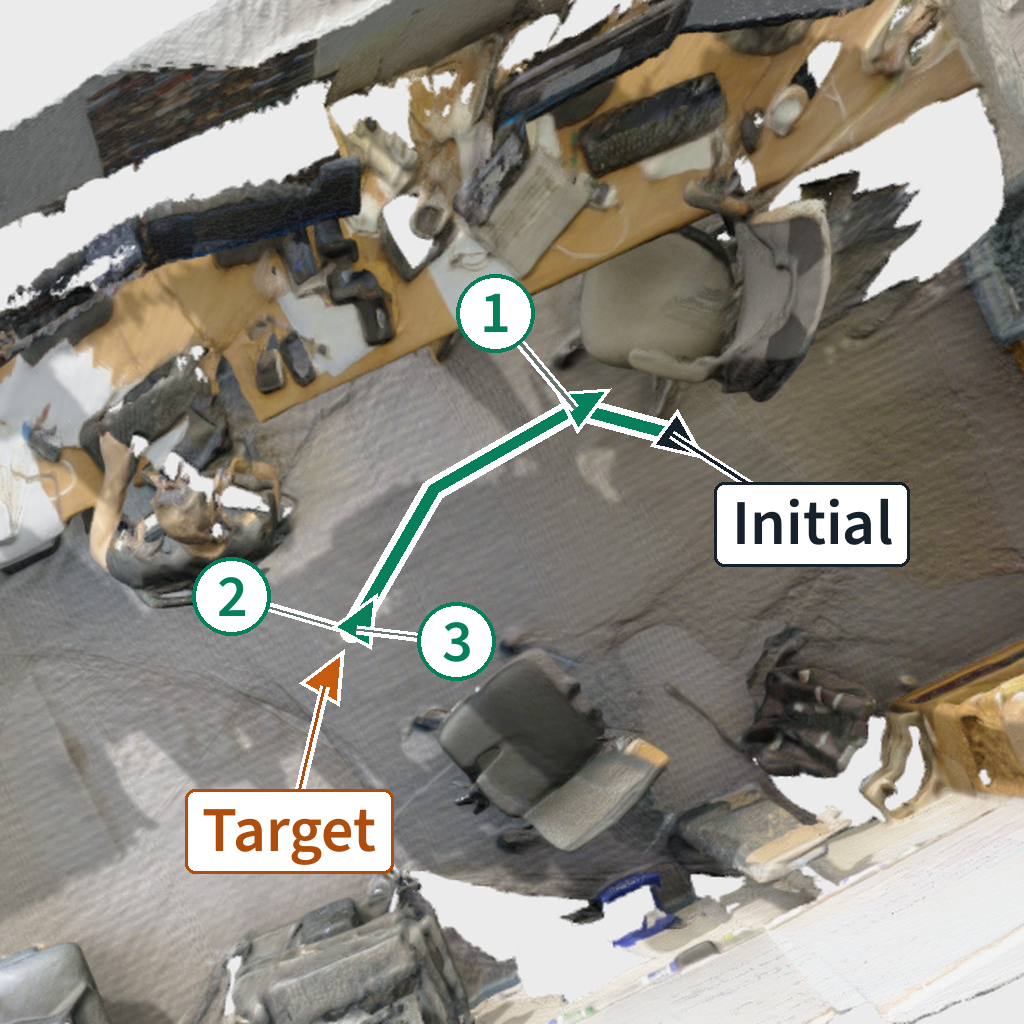
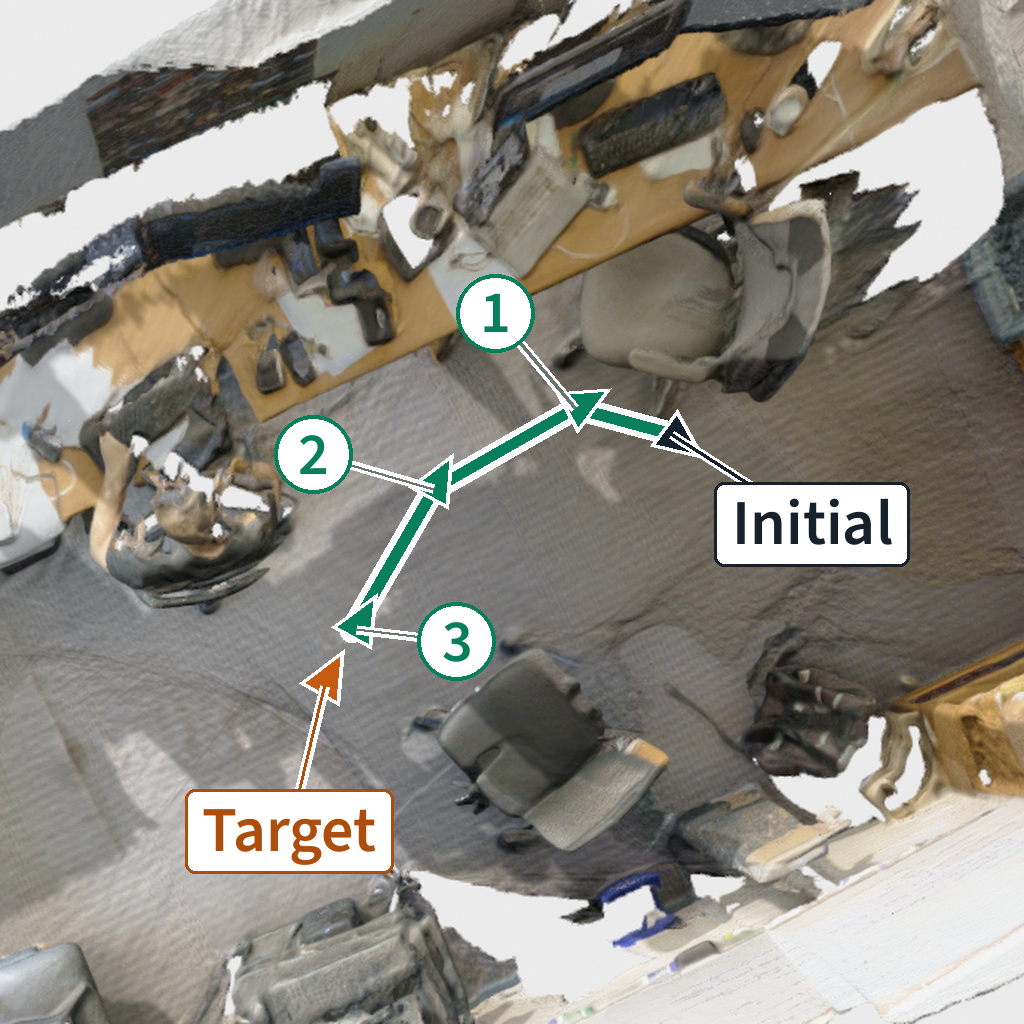
Animate WorldTM writes and fix figure annotations

Changed region(s): [[0.25, 0.4062, 0.4375, 0.5], [0.1875, 0.5312, 0.3438, 0.625]]

diff --git a/worldtm/hero-v2.js b/worldtm/hero-v2.js
@@ -24,13 +24,21 @@ function heroStateAt(d, ms) {
   if (ms < intro) return { kind: 'intro', displayed: 0, observed: 0, written: 0, readable: 0, phase: 'intro', progress: 0 };
   if (ms >= end) return { kind: 'final', displayed: n, observed: counts[n - 1], written: counts[n - 1], readable: counts[n - 1], phase: 'final', progress: 1 };
   const index = Math.min(n - 1, Math.floor((ms - intro) / period));
-  const fraction = (ms - intro - index * period) / period;
+  const elapsed = ms - intro - index * period;
+  const staged = Boolean(d.playback.display_write_counts);
+  const observeEnd = staged ? 2100 : period * .3;
+  const transferEnd = observeEnd + (staged ? 2400 : 0);
+  const writeEnd = staged ? transferEnd + 1700 : period * .6;
+  const readEnd = staged ? writeEnd + 1750 : period * .85;
   const count = counts[index], previous = index ? counts[index - 1] : 0;
   const hasRead = d.checkpoints.some(c => c.write_count === count);
-  const phase = fraction < .3 ? 'observe' : fraction < .6 ? 'write' : hasRead && fraction < .85 ? 'read' : 'result';
-  const progress = phase === 'write' ? (fraction - .3) / .3 : phase === 'read' ? (fraction - .6) / .25 : 1;
-  return { kind: 'input', displayed: index + 1, observed: count, written: fraction >= .6 ? count : previous,
-    readable: fraction >= .85 ? count : previous, phase, progress };
+  const phase = elapsed < observeEnd ? 'observe' : elapsed < writeEnd ? 'write' : hasRead && elapsed < readEnd ? 'read' : 'result';
+  const transferring = staged && phase === 'write' && elapsed < transferEnd;
+  const transferProgress = phase === 'write' && staged ? Math.min(1, (elapsed - observeEnd) / 2400) : 0;
+  const progress = phase === 'write' ? Math.max(0, (elapsed - transferEnd) / (writeEnd - transferEnd))
+    : phase === 'read' ? (elapsed - writeEnd) / (readEnd - writeEnd) : 1;
+  return { kind: 'input', displayed: index + 1, observed: count, written: elapsed >= writeEnd ? count : previous,
+    readable: elapsed >= readEnd ? count : previous, phase, progress, transferring, transferProgress };
 }
 
 function heroCheckpointAt(d, prefix) {
@@ -42,6 +50,7 @@ function heroDescriptionAt(d, s) {
   if (s.kind === 'final') return `Compare predictions at the ${d.queries.length} fixed query poses.`;
   const step = `Step ${s.displayed}: `;
   if (s.phase === 'observe') return step + 'Move to a new view.';
+  if (s.transferring) return step + 'Move this view and camera pose into Writer.';
   if (s.phase === 'write') return step + 'Write this view into memory.';
   return step + `Read memory at ${d.queries.length} fixed query poses.`;
 }
@@ -121,6 +130,42 @@ function initHero(d, asset) {
     el.querySelector('.glyph').style.rotate = `${pose.yaw_deg}deg`;
   }
   const currentCamera = camera('', d.observations[0].pose, 'current hide');
+  const flightLayer = document.createElement('div');
+  flightLayer.className = 'write-flight-layer'; flightLayer.hidden = true;
+  flightLayer.setAttribute('aria-hidden', 'true');
+  const imageCopy = document.createElement('img');
+  imageCopy.className = 'write-flight write-image-copy'; imageCopy.alt = '';
+  const poseCopy = currentCamera.cloneNode(true);
+  poseCopy.removeAttribute('style'); poseCopy.className = 'camera current write-flight write-pose-copy';
+  flightLayer.append(imageCopy, poseCopy); stage.append(flightLayer);
+  let transferGeometry = null;
+  function measureTransfer() {
+    if (currentCamera.classList.contains('hide')) return;
+    const origin = stage.getBoundingClientRect(), writer = $('writer').getBoundingClientRect();
+    transferGeometry = [imageCopy, poseCopy].map((copy, i) => {
+      const r = (i ? currentCamera : $('observation')).getBoundingClientRect();
+      copy.style.width = `${r.width}px`; copy.style.height = `${r.height}px`;
+      return { x: r.left + r.width / 2 - origin.left, y: r.top + r.height / 2 - origin.top,
+        width: r.width, height: r.height, scale: i ? 1 : .2,
+        targetX: writer.left + writer.width / 2 - origin.left,
+        targetY: writer.top + writer.height * (i ? .28 : .72) - origin.top };
+    });
+  }
+  function paintTransfer(s) {
+    const selected = Boolean(s.transferring);
+    document.querySelector('.observation').classList.toggle('input-selected', selected);
+    currentCamera.classList.toggle('input-selected', selected);
+    flightLayer.hidden = !d.playback.display_write_counts || motion.matches || s.phase !== 'write' || s.progress > .2;
+    if (flightLayer.hidden || !transferGeometry) return;
+    const t = .5 - Math.cos(Math.PI * s.transferProgress) / 2;
+    flightLayer.style.opacity = s.transferring ? Math.min(1, s.transferProgress * 12) : Math.max(0, 1 - s.progress / .2);
+    [imageCopy, poseCopy].forEach((copy, i) => {
+      const g = transferGeometry[i], scale = 1 + (g.scale - 1) * t;
+      const x = g.x + (g.targetX - g.x) * t - g.width * scale / 2;
+      const y = g.y + (g.targetY - g.y) * t - g.height * scale / 2;
+      copy.style.transform = `translate3d(${x}px, ${y}px, 0) scale(${scale})`;
+    });
+  }
   d.queries.forEach(q => {
     camera(q.id, q.pose, 'query');
     const chip = document.createElement('span'); chip.textContent = q.id; $('query-list').append(chip);
@@ -216,13 +261,15 @@ function initHero(d, asset) {
     });
     connections.forEach(c => { c.length = c.path.getTotalLength(); });
     paintFlow(heroStateAt(d, currentMs));
+    measureTransfer(); paintTransfer(heroStateAt(d, currentMs));
   }
   function paintFlow(s) {
-    const writing = s.phase === 'write', reading = s.phase === 'read';
+    const writing = s.phase === 'write' && !s.transferring, reading = s.phase === 'read';
     connections.forEach((c, i) => {
-      const active = i < 2 ? writing : reading; c.group.classList.toggle('active', active);
+      const active = i === 0 ? (s.transferring || writing) : i === 1 ? writing : reading;
+      c.group.classList.toggle('active', active);
       if (active && c.length) {
-        const point = c.path.getPointAtLength(s.progress * c.length);
+        const point = c.path.getPointAtLength((i === 0 && s.transferring ? s.transferProgress : s.progress) * c.length);
         c.pulse.setAttribute('cx', point.x); c.pulse.setAttribute('cy', point.y);
       }
     });
@@ -245,6 +292,7 @@ function initHero(d, asset) {
     const s = heroStateAt(d, ms), read = heroCheckpointAt(d, s.readable);
     stage.dataset.displayed = s.displayed;
     stage.dataset.phase = s.phase; stage.dataset.observations = s.observed;
+    stage.dataset.writeStage = s.phase === 'write' ? (s.transferring ? 'transfer' : 'commit') : '';
     stage.dataset.writes = s.written; stage.dataset.predictions = read ? read.write_count : -1;
     if (lastObs !== s.observed) {
       lastObs = s.observed;
@@ -253,6 +301,9 @@ function initHero(d, asset) {
       if (s.observed) {
         const o = d.observations[s.observed - 1]; $('observation').src = asset(o.rgb);
         positionCamera(currentCamera, o.pose);
+        imageCopy.src = $('observation').src;
+        poseCopy.querySelector('.glyph').style.rotate = `${o.pose.yaw_deg}deg`;
+        measureTransfer();
       }
     }
     if (lastWritten !== s.written) {
@@ -267,10 +318,11 @@ function initHero(d, asset) {
       button.setAttribute('aria-pressed', String(current));
     });
     paintFlow(s);
+    paintTransfer(s);
     slots.forEach((el, i) => {
       let value = slotValue(i, s.written);
       const delta = s.phase === 'write' ? slotValue(i, s.observed) - value : 0;
-      const updating = s.phase === 'write' && Array.from({ length: s.observed - s.written }, (_, j) => j + s.written + 1).some(count => slotGate(i, count) > .80);
+      const updating = s.phase === 'write' && !s.transferring && Array.from({ length: s.observed - s.written }, (_, j) => j + s.written + 1).some(count => slotGate(i, count) > .80);
       el.classList.toggle('updating', updating);
       value += delta * s.progress;
       el.style.setProperty('--slot-strength', value);
@@ -292,9 +344,9 @@ function initHero(d, asset) {
       });
     }
     const phase = s.kind === 'intro' ? 'Ready' : s.kind === 'final' ? 'Complete'
-      : s.phase === 'observe' ? 'Observing' : s.phase === 'write' ? 'Writing'
+      : s.phase === 'observe' ? 'Observing' : s.transferring ? 'Sending inputs' : s.phase === 'write' ? 'Writing'
       : s.phase === 'read' ? 'Reading' : 'Reviewing';
-    const phaseKey = `${s.kind}-${s.phase}-${s.displayed}`;
+    const phaseKey = `${s.kind}-${s.phase}-${s.displayed}-${s.transferring}`;
     if (phaseKey !== lastPhase) {
       lastPhase = phaseKey; $('phase-label').textContent = phase;
       const description = heroDescriptionAt(d, s);
@@ -330,7 +382,7 @@ function initHero(d, asset) {
       e.preventDefault(); togglePlayback();
     }
   });
-  motion.addEventListener('change', e => { if (e.matches) { playing = false; updateButton(); } });
+  motion.addEventListener('change', e => { if (e.matches) { playing = false; updateButton(); } render(currentMs); });
   function tick(timestamp) {
     if (lastFrame) {
       if (playing && heroInViewport) { currentMs = (currentMs + Math.min(100, timestamp - lastFrame) * speed) % total; render(currentMs); }

diff --git a/worldtm/examples/living-room.html b/worldtm/examples/living-room.html
@@ -88,8 +88,8 @@
 
       <footer class="playback" id="playback">
         <p class="phase-description" id="phase-description" aria-live="polite" aria-atomic="true"><span id="phase-copy"><strong class="phase-action move">Move</strong> through the scene and build memory.</span></p>
-        <div class="status-line"><span id="phase-label">Ready</span><span class="clock" id="clock">00:00 / 00:40</span></div>
-        <div class="timeline-track"><div class="timeline-marks" id="timeline-marks" aria-hidden="true"></div><input type="range" id="scrub" min="0" max="40000" step="10" value="0" aria-label="Demo timeline" aria-valuetext="0 seconds; no observations"></div>
+        <div class="status-line"><span id="phase-label">Ready</span><span class="clock" id="clock">00:00 / 00:50</span></div>
+        <div class="timeline-track"><div class="timeline-marks" id="timeline-marks" aria-hidden="true"></div><input type="range" id="scrub" min="0" max="50000" step="10" value="0" aria-label="Demo timeline" aria-valuetext="0 seconds; no observations"></div>
         <div class="playback-controls">
           <div class="button-group">
             <button class="button primary" id="toggle" type="button"><svg viewBox="0 0 16 16" width="16" height="16" aria-hidden="true"><path d="M5 3v10M11 3v10"/></svg><span>Pause</span></button>
@@ -103,8 +103,8 @@
     </main>
   </div>
   <template id="baseline-notes">
-    <aside class="baseline-note pending" data-for-query="Living" data-baseline="vggt" aria-label="VGGT limitation for Living"><strong>Misalignment</strong><span>Inaccurate reprojection.</span></aside>
-    <aside class="baseline-note pending" data-for-query="TV" data-baseline="vggt" aria-label="VGGT limitation for TV"><strong>Holes</strong><span>Missing surfaces.</span></aside>
+    <aside class="baseline-note pending" data-for-query="Living" data-baseline="vggt" aria-label="VGGT limitation for Living"><strong>Holes</strong><span>Missing surfaces.</span></aside>
+    <aside class="baseline-note pending" data-for-query="TV" data-baseline="vggt" aria-label="VGGT limitation for TV"><strong>Misalignment</strong><span>Inaccurate reprojection.</span></aside>
     <aside class="baseline-note pending" data-for-query="Sofa" data-baseline="vggt" aria-label="VGGT limitation for Sofa"><strong>No coverage</strong><span>No reconstruction support.</span></aside>
   </template>
   <!-- embedded-data -->

diff --git a/worldtm/hero-real.css b/worldtm/hero-real.css
@@ -40,6 +40,17 @@ h2 { font-size: 16px; }
   min-width: 0;
   padding: 20px 20px 26px;
 }
+.write-flight-layer { position: absolute; inset: 0; z-index: 2; pointer-events: none; }
+.write-flight-layer[hidden] { display: none; }
+.write-flight { position: absolute; left: 0; top: 0; transform-origin: 0 0; }
+.write-image-copy { display: block; border: 2px solid var(--writer); border-radius: 8px; object-fit: contain; background: #fff; box-shadow: 0 4px 14px #17212b26; }
+.write-pose-copy { opacity: 1; }
+.observation.input-selected { outline: 2px solid var(--writer); outline-offset: 3px; }
+.camera.current.input-selected .glyph { box-shadow: 0 0 0 3px #087f5b38; }
+.hero-stage > .writer { z-index: 3; }
+@media (prefers-reduced-motion: reduce) {
+  .write-flight-layer { display: none; }
+}
 .sr-only { position: absolute; width: 1px; height: 1px; padding: 0; margin: -1px; overflow: hidden; clip-path: inset(50%); white-space: nowrap; border: 0; }
 .scene-module { grid-area: 1 / 1 / 2 / 3; width: 100%; max-width: 400px; }
 .input-module { width: 100%; max-width: 240px; }
